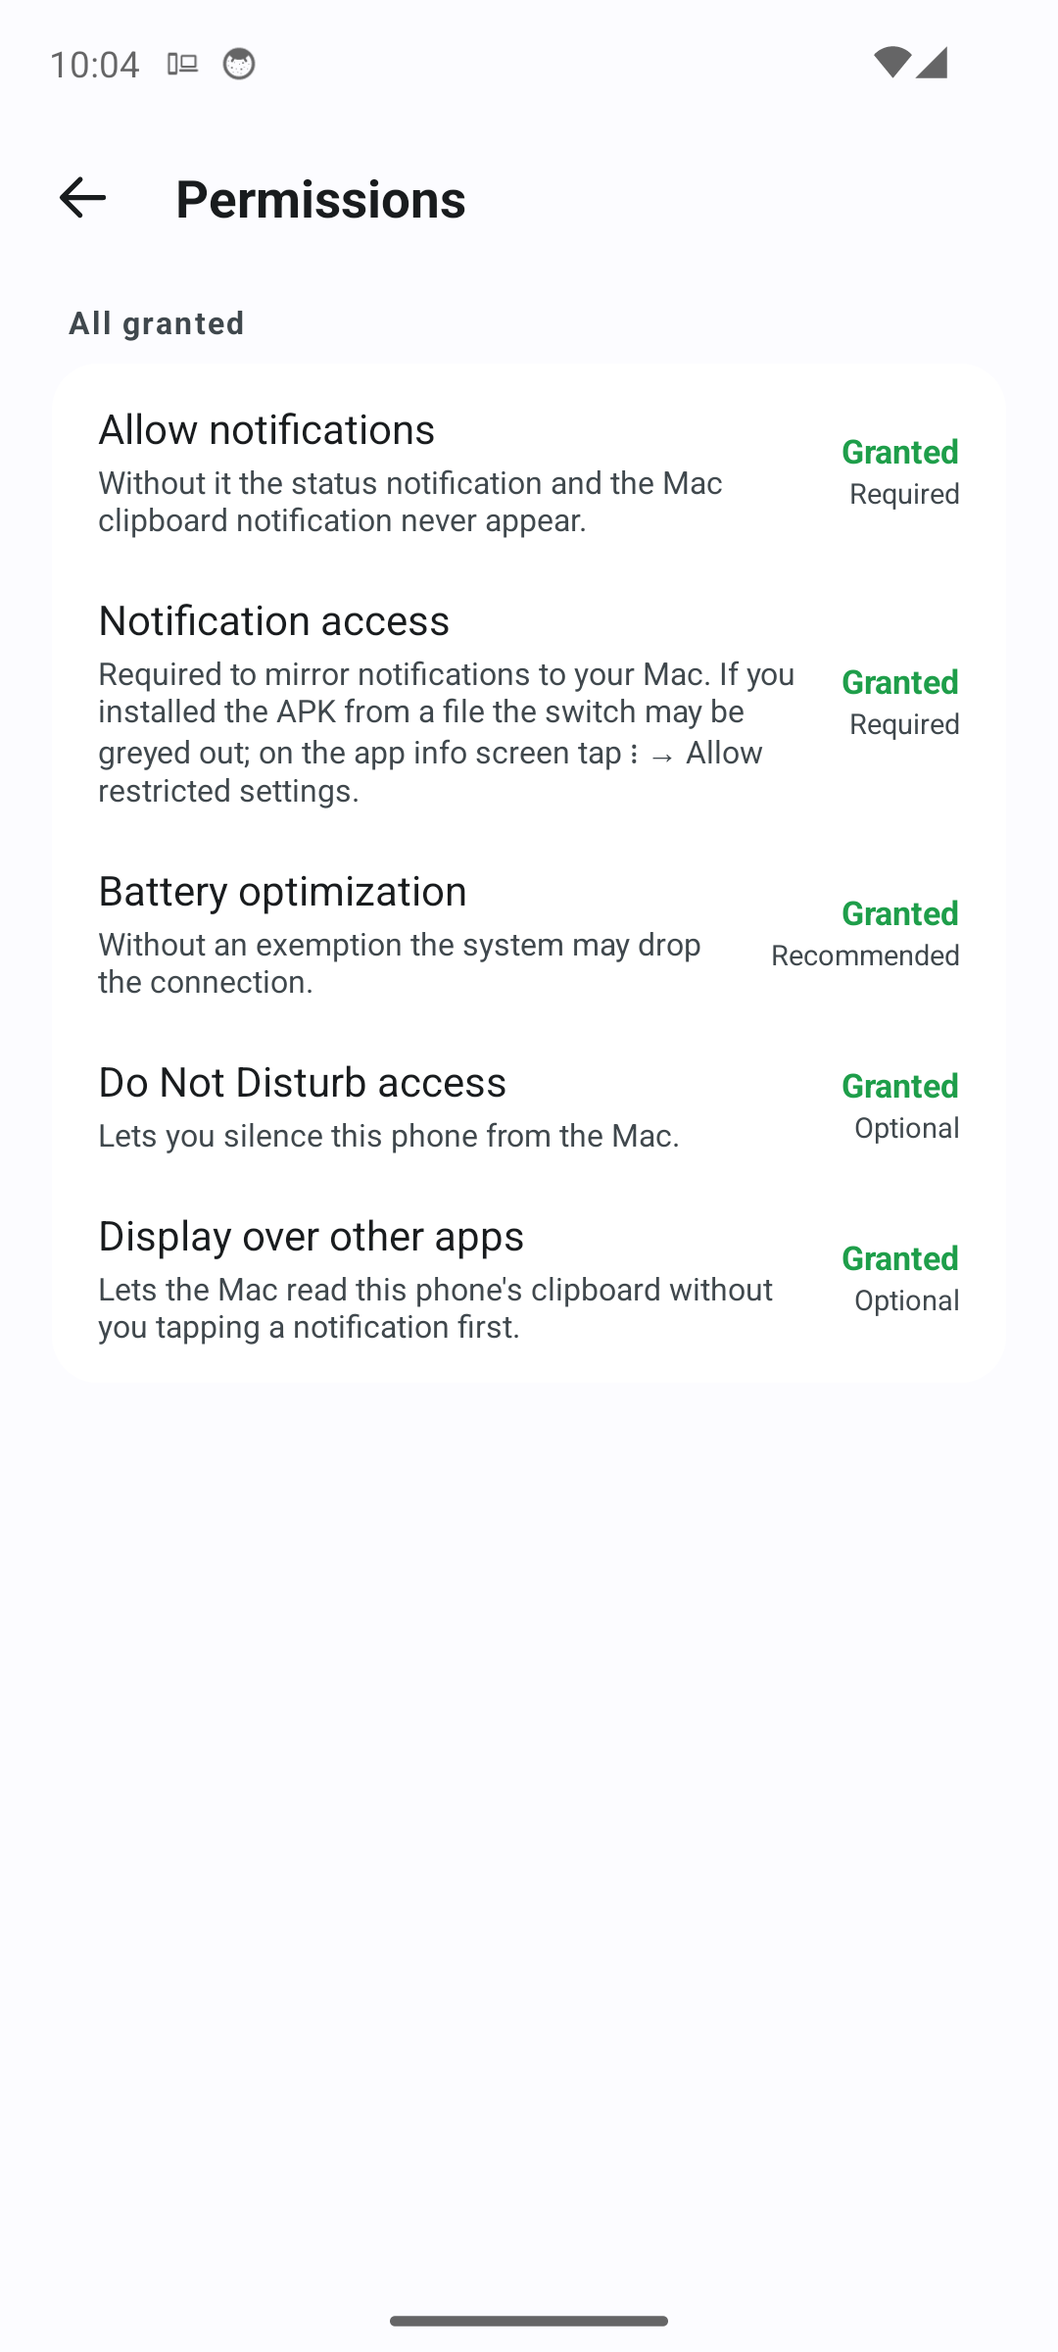
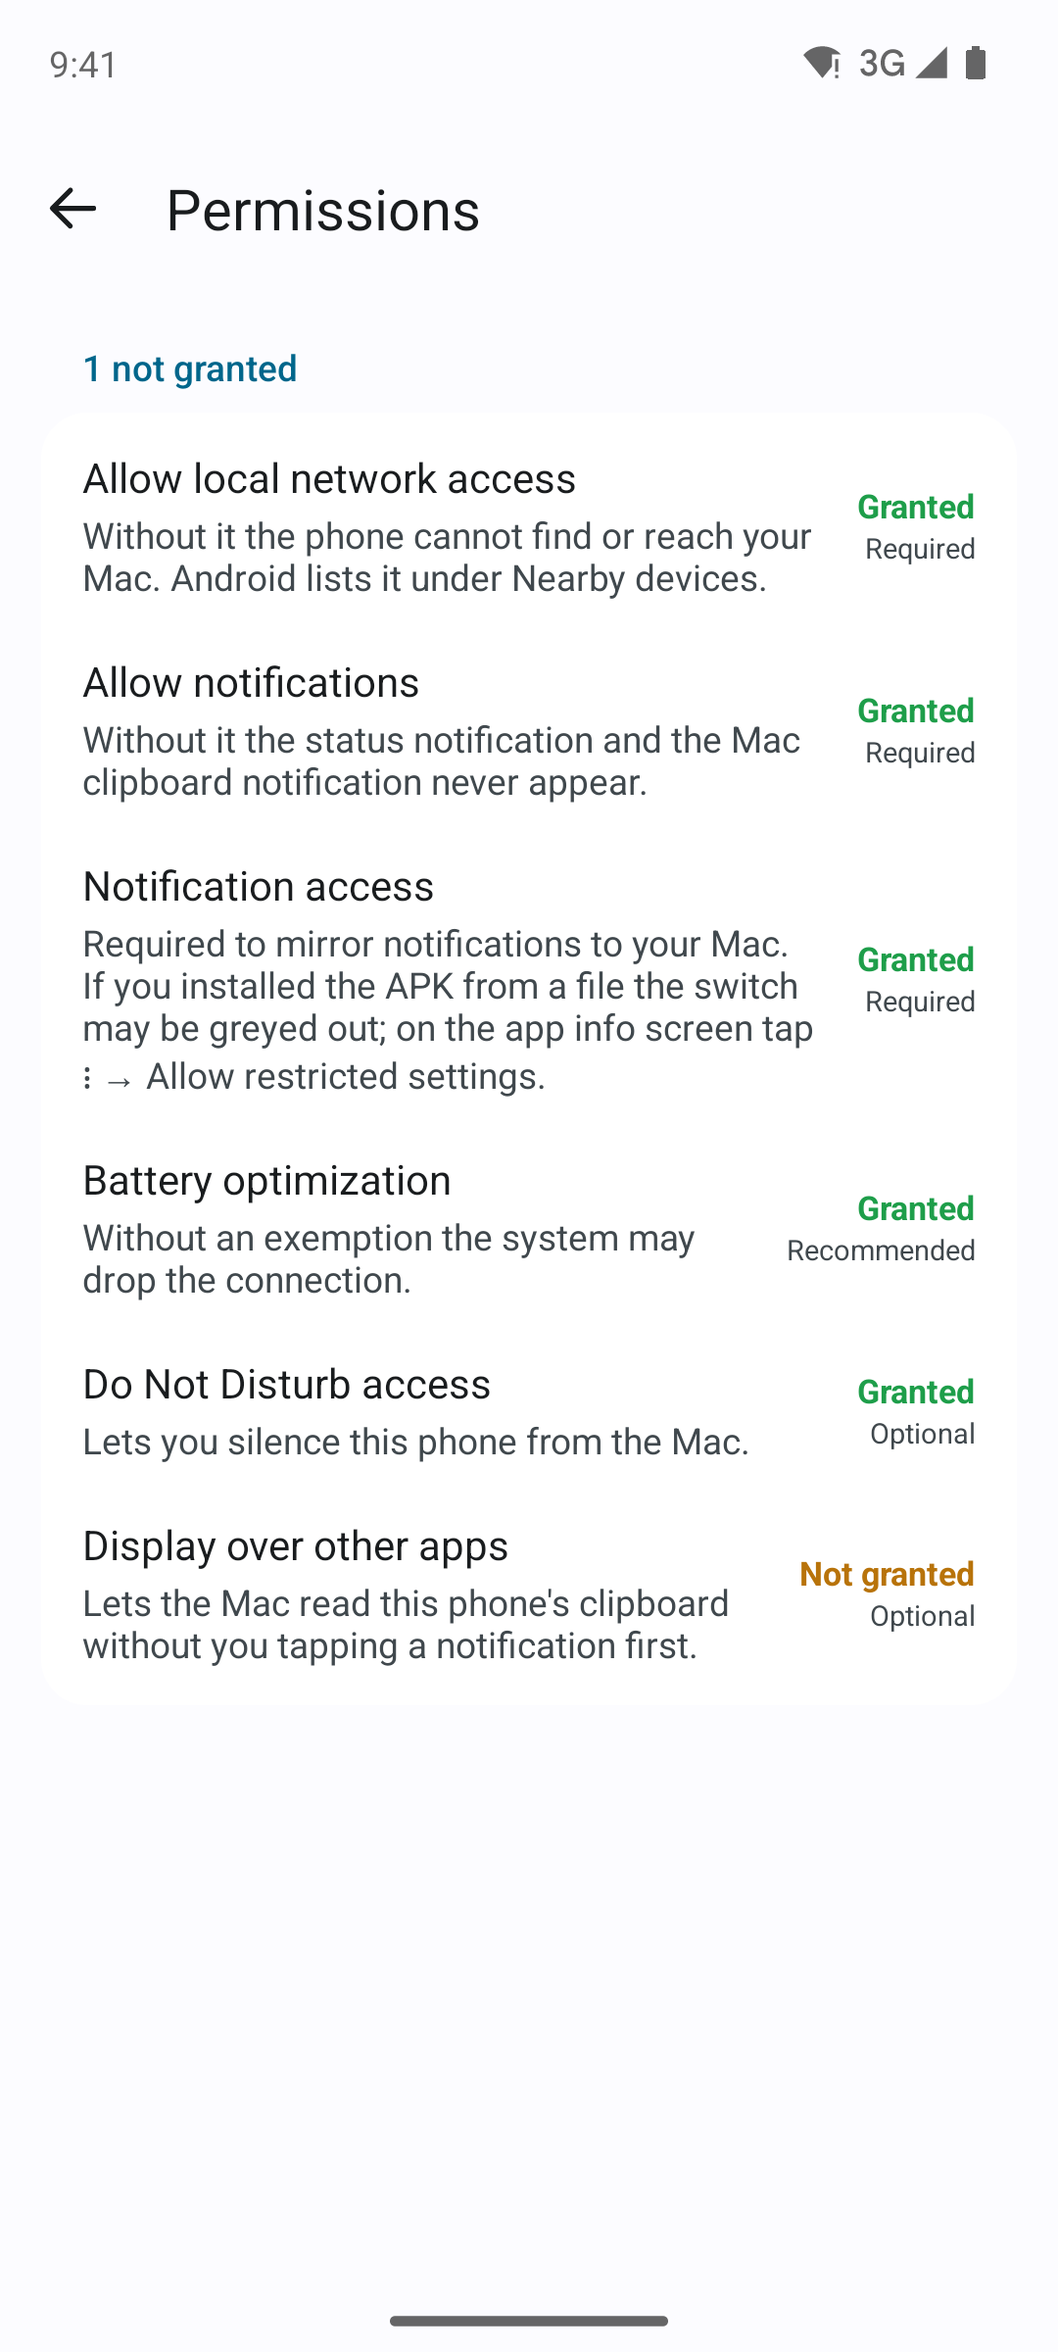
docs: new screenshots, guide and changelog for the UI changes

diff --git a/docs/GUIDE.tr.md b/docs/GUIDE.tr.md
@@ -197,41 +197,51 @@ başka bir yol da yok.
 
 ## Ayarlar
 
-Telefonun ana ekranı sade kalır: bağlantı durumu, **Pil durumu**, **Pano**, **Bildirimler** ve
-**Medya** için dört senkronizasyon anahtarı, **İzinler** kartı, iki ayrıntı satırı ve en altta
-sürüm. İki uygulama da sürümü aynı biçimde yazar: `1.0.0 (12 · abc1234)`, yani sürüm, derleme
-numarası ve derlendiği commit. Hata bildirirken bu satırın tamamını yaz. Gerisi bir alt seviyede.
+Telefonun ana ekranı sade kalır. Durum kartı Mac'in adını söyler: "… ile bağlı", "… ile bağlanılıyor"
+ya da eşleştirilmemişken ağda gördüğü Mac'ler. Altında **Pil durumu**, **Pano**, **Bildirimler**
+ve **Medya** için dört eşitleme anahtarı ve pano geçmişi durur. Bağlantı rehberi yalnızca telefon
+eşleşene kadar görünür; sonra üst çubuktaki **ⓘ** düğmesi onu canlı tanıyla birlikte açar. İzinler
+kartı yalnızca zorunlu bir izin eksikken çıkar. Geri kalan her şey üst çubuktaki **Ayarlar**
+düğmesinin arkasında.
+
+İki uygulama da sürümü aynı biçimde yazar: `1.1.0 (12 · abc1234)`, yani sürüm, derleme numarası ve
+derlendiği commit. Telefonda Ayarlar → Hakkında'da durur. Hata bildirirken bu satırın tamamını yaz.
 
 | Ekran | İçinde ne var |
 |---|---|
-| İzinler | Altı iznin tamamı, "Verildi" ya da "Verilmedi" durumu ve Zorunlu, Önerilir ya da İsteğe bağlı notuyla. Ana ekrandaki İzinler kartının başlığından açılır. |
+| Ayarlar | Bağlantı, Bildirimler, Pano, Dosya aktarımı, İzinler, Dil, Güncellemeler ve Hakkında; her biri tek satırlık bir özetle. |
+| Pano geçmişi | Mac'e giden ya da Mac'ten gelen son 20 metin, en yenisi üstte. Dokununca panoya alınır, gönder düğmesi yeniden gönderir. Yalnızca bellekte tutulur, depolamaya hiç yazılmaz; hassas kayıtlar tutulmaz. |
+| İzinler | Altı iznin tamamı, "Verildi" ya da "Verilmedi" durumu ve Zorunlu, Önerilir ya da İsteğe bağlı notuyla. Ayarlar'dan açılır. |
 | Bağlantı | Durum, Mac'in adı ve son adresi, **Otomatik yeniden bağlan**, **Şimdi bağlan** ve **Bu Mac'i unut**. |
 | Bildirim ayarları | Neyin ayarlı olduğunu özetleyen **Uygulama filtresi**, **Sessiz bildirimler** ve **Sadece telefon kilitliyken**. Her zaman elenenleri de listeler. |
 | Uygulama filtresi | Telefonun gördüğü her uygulama için üç kademeli seçici; Bildirim ayarları'ndan açılır. |
 | Pano ayarları | Gelen: **Panoya otomatik yaz**, **Bildirim göster**. Giden: **Hassas içeriği gönderme**. Bir de **Panoyu Mac'e gönder**. |
-| Bağlantı yardımı | Canlı tanı, sık karşılaşılan sorunlar ve işin nasıl yürüdüğü. Eşleştirme rehberindeki **Bağlanamıyorum**'dan açılır. |
+| Bağlantı yardımı | Canlı tanı, sık karşılaşılan sorunlar ve işin nasıl yürüdüğü. **ⓘ** düğmesinden ya da eşleştirme rehberindeki **Bağlanamıyorum**'dan açılır. |
 | Güncellemeler | Günlük güncelleme denetimi: anahtar, **Şimdi denetle** ve yeni paketi indirip doğrulayarak kuran **Kur** düğmesi. |
 | Dosyalar | **Dosya al** ve **Dosyaları otomatik kabul et**. Gelen dosyalar İndirilenler'e iner; gönderme herhangi bir uygulamanın paylaşım menüsünden yapılır. |
 | Dil | Android'in uygulama başına dil seçicisini açar; İngilizce ve Türkçe sunar. |
 
-Mac'te menü çubuğu paneli göz atmak içindir. En üstte cihaz kartı durur. Birden fazla telefon
-eşliyse kart onları Finder sekmeleri gibi üstte sekmeler hâlinde gösterir; bir sekmeye tıklamak
-hangi telefonun ayrıntılarının, denetimlerinin ve pilinin gösterildiğini değiştirir. Tek telefonda
-sekme yoktur. Kart, seçili telefonun çalan parçasını, ses düzeyi sürgüsünü ve zil modu
-düğmelerini, pano anahtarını, çaldırma düğmesini, test bildirimi düğmesini ve "Bağlantıyı kes"i
-taşır. Altında pil, sonra son pano kaydı, iki yönden birinde dosya giderken bir ilerleme satırı ve
-en son dört bildirim gelir. Durum satırı yalnızca hiç eşleştirme yokken ya da dinleyici kapalıyken
-en üstte çıkar. AndroMac için macOS bildirimleri kapalıysa panel tek satırlık bir uyarı ve ilgili
-Sistem Ayarları bölmesini açan bir düğme gösterir. Panelin üstüne bırakılan dosyalar gönderilir.
-Menü çubuğu simgesine sağ tıklamak AndroMac'i aç, Ayarlar ve Çık menüsünü açar.
-Neyin eşitleneceği bir kez Ayarlar'da kararlaştırılır; ayrıntı pencerede.
+Mac'te menü çubuğu paneli göz atmak içindir. Birden fazla telefon eşliyse üstteki sekmeler
+aralarında geçiş yapar. Telefonun kartı adını ve durumunu, tek bir pil satırını, çalan parçayı, zil
+modu ile ses düzeyini tek satırda gösterir. Altında tek sıra düğme var: telefonu çaldır, test
+bildirimi gönder, ekranı yansıt ve **Panomu buraya gönder**, **Cihaz ayarları…** ile **Bağlantıyı
+kes**'i taşıyan bir **⋯** menüsü. Telefonun adına tıklamak ayarlarını açar. Sonra son pano kaydı
+gelir; yanındaki düğmeler telefondan panoyu ister, Mac'inkini gönderir ya da dosya gönderir.
+Üzerine gelince metnin tamamı görünür, ⌘C kopyalar. Paneli en son dört bildirim kapatır. Dosya
+giderken bir ilerleme satırı, yalnızca hiç eşleştirme yokken ya da dinleyici kapalıyken bir durum
+satırı, AndroMac için macOS bildirimleri kapalıyken de tek satırlık bir uyarı çıkar. Panelin
+üstüne bırakılan dosyalar gönderilir. ⌘, Ayarlar'ı açar; menü çubuğu simgesine sağ tıklamak
+AndroMac'i aç, Ayarlar ve Çık menüsünü açar.
 
-| Sekme | İçinde ne var |
+Pencerenin tek bir kenar çubuğu var: üstte **Bildirimler**, **Pano** ve **Uygulamalar**, altında
+bütün ayar bölümleri.
+
+| Sayfa | İçinde ne var |
 |---|---|
 | Bildirimler | Geçmiş; arama ve temizleme düğmesi. |
 | Pano | Geçmiş; arama, tıklayınca panoya alma, sağ tıkla geri gönderme ya da silme. |
 | Uygulamalar | Telefondaki her uygulama için kademe seçici. |
-| Ayarlar | Kenar çubuğu düzeni: solda bölüm listesi, sağda seçili bölümün seçenekleri. Bölümler sırasıyla Genel, Eşitleme, Pano, Bildirimler, Dosyalar, Ekran yansıtma, Cihazlar, İzinler, Ağ, Güncellemeler, Ölçümler ve Gizlilik. |
+| Ayarlar | Genel, Eşitleme, Pano, Bildirimler, Dosyalar, Ekran yansıtma, Cihazlar, İzinler, Ağ, Güncellemeler, Ölçümler ve Gizlilik. |
 
 Ayarlar → Genel'de **Oturum açınca başlat**, **Menü çubuğunda pil yüzdesi** ve Sistem, İngilizce,
 Türkçe seçenekli bir **Dil** seçici var. Dil açılışta okunduğu için değiştirince bir "Yeniden
@@ -441,7 +451,7 @@ göstermeli. Belirgin biçimde fazlası, kurallardan birinin çiğnendiği anlam
 <td align="center"><img src="images/android-home.png" alt="Android ana ekranı" width="230"></td>
 <td align="center"><img src="images/android-home-dark.png" alt="Android ana ekranı, koyu tema" width="230"></td>
 <td align="center"><img src="images/android-permissions.png" alt="Android'de İzinler ekranı" width="230"></td>
-<td align="center"><img src="images/android-connection.png" alt="Android'de Bağlantı ekranı" width="230"></td>
+<td align="center"><img src="images/android-settings.png" alt="Android'de Ayarlar" width="230"></td>
 </tr>
 <tr>
 <td colspan="2" align="center"><img src="images/android-pairing.png" alt="Android'de eşleştirme kodu" width="230"></td>
@@ -451,13 +461,10 @@ göstermeli. Belirgin biçimde fazlası, kurallardan birinin çiğnendiği anlam
 <td colspan="4" align="center"><img src="images/macos-window.png" alt="macOS'ta AndroMac ana penceresi" width="640"></td>
 </tr>
 <tr>
-<td colspan="4" align="center"><img src="images/macos-settings.png" alt="macOS'ta Ayarlar, Genel" width="640"></td>
+<td colspan="4" align="center"><img src="images/macos-settings.png" alt="macOS'ta Ayarlar, Pano" width="640"></td>
 </tr>
 <tr>
 <td colspan="4" align="center"><img src="images/macos-settings-sync.png" alt="macOS'ta Ayarlar, Eşitleme" width="640"></td>
-</tr>
-<tr>
-<td colspan="4" align="center"><img src="images/macos-settings-permissions.png" alt="macOS'ta Ayarlar, İzinler" width="640"></td>
 </tr>
 </table>
 

diff --git a/docs/GUIDE.md b/docs/GUIDE.md
@@ -198,45 +198,54 @@ nothing, and nothing in the protocol can read its clipboard.
 
 ## Settings
 
-The phone's main screen stays plain: connection status, the **Permissions** card, four sync
-switches for **Battery**, **Clipboard**, **Notifications** and **Media**, two detail lines, and
-the version at the bottom. Both apps write the version the same way, as `1.0.0 (12 · abc1234)`:
-version, build number and the commit it was built from. Quote that whole string in a bug report.
-Everything else is one level down.
+The phone's main screen stays plain. The status card names the Mac: "Connected to …",
+"Connecting to …", or, while unpaired, the Macs it can see. Below it sit the four sync switches
+for **Battery**, **Clipboard**, **Notifications** and **Media**, and the clipboard history. The
+connection guide shows only until the phone is paired; after that the **ⓘ** button in the top
+bar opens it together with the live diagnostics. A permissions card appears only while a required
+permission is missing. Everything else is behind the **Settings** button in the top bar.
+
+Both apps write the version the same way, as `1.1.0 (12 · abc1234)`: version, build number and
+the commit it was built from. It is under Settings → About on the phone. Quote that whole string
+in a bug report.
 
 | Screen | What is on it |
 |---|---|
+| Settings | Connection, Notifications, Clipboard, File transfer, Permissions, Language, Updates and About, each with a one-line summary. |
+| Clipboard history | The last 20 texts sent to or received from the Mac, newest first. Tap to copy, the send button to send again. Kept in memory only and never written to storage; sensitive clips are not recorded. |
 | Permissions | All six permissions, each marked Granted or Not granted, with Required, Recommended or Optional noted. Tapping one opens the matching system screen. |
 | Connection | State, the Mac's name and last address, **Reconnect automatically**, **Connect now**, and **Forget this Mac**. |
 | Notification settings | **App filter** with a summary of what is set, **Silent notifications**, and **Only while the phone is locked**. It also lists what is always filtered out. |
 | App filter | The three-tier picker for every app the phone has seen, reached from Notification settings. |
 | Clipboard settings | Incoming: **Write to the clipboard**, **Show a notification**. Outgoing: **Never send sensitive content**. Plus **Send clipboard to Mac**. |
-| Connection help | Live diagnostics, common problems, and how the whole thing works. Reached through **I can't connect** in the pairing guide. |
+| Connection help | Live diagnostics, common problems, and how the whole thing works. Reached through the **ⓘ** button, or **I can't connect** in the pairing guide. |
 | Updates | The daily update check: switch, **Check now**, and an **Install** button that downloads, verifies and installs the newer build. |
 | Files | **Receive files** and **Accept files automatically**. Received files go to Downloads; sending is done from any app's share sheet. |
 | Language | Opens the Android per-app language picker, which offers English and Turkish. |
 
-On the Mac the menu bar panel is for glancing. It shows, in order, a device card, the last
-clipboard entry, and the four most recent notifications. The card carries the phone's track, its
-volume slider and ringer buttons, its clipboard switch, a ring button, a test-notification button
-and Disconnect, with battery underneath. With more than one phone paired, the card shows them as
-tabs across the top, like Finder tabs, and clicking a tab switches which phone's details,
-controls and battery are shown. With one phone there are no tabs. A progress row sits under the
-clipboard entry while a file is moving in either direction. A status line appears above all of
-it only when nothing is paired yet or the listener is down. While macOS notifications are turned
-off for AndroMac, the panel shows a one-line warning with a button that opens the matching
-System Settings pane. Dropping files onto the panel sends them. Right-clicking the menu bar icon opens a menu with Open AndroMac, Settings and Quit. What syncs is decided once, in
-Settings, and the detail lives in the window.
+On the Mac the menu bar panel is for glancing. With more than one phone paired, tabs across the
+top switch between them. The phone's card shows its name and state, one battery line, the track
+that is playing, and the ringer and volume on one row. Below that is one row of buttons: ring the
+phone, send a test notification, mirror the screen, and a **⋯** menu with **Send my clipboard
+here**, **Device settings…** and **Disconnect**. Clicking the phone's name opens its settings.
+Next comes the last clipboard entry, with buttons to ask the phone for its clipboard, send the
+Mac's, or send a file; hover it to read the whole text, and press ⌘C to copy it. The four most
+recent notifications close the panel. A progress line appears while a file is moving, a status
+line only when nothing is paired or the listener is down, and a one-line warning while macOS
+notifications are off for AndroMac. Dropping files onto the panel sends them. ⌘, opens
+Settings, and right-clicking the menu bar icon opens a menu with Open AndroMac, Settings and Quit.
 
-| Tab | What is on it |
+The window has one sidebar: **Notifications**, **Clipboard** and **Apps** at the top, then every
+settings section.
+
+| Page | What is on it |
 |---|---|
 | Notifications | The history, with search and a clear button. |
 | Clipboard | The history, with search, click to copy, right-click to send back or delete. |
 | Apps | The tier picker for every app on the phone. |
-| Settings | A sidebar with General, Sync, Clipboard, Notifications, Files, Screen mirroring, Devices, Permissions, Network, Updates, Metrics and Privacy. |
+| Settings | General, Sync, Clipboard, Notifications, Files, Screen mirroring, Devices, Permissions, Network, Updates, Metrics and Privacy. |
 
-Settings is a sidebar layout: the sections listed on the left, the chosen section's options on
-the right. General has **Open at login**, **Show battery percentage in the menu bar**, and a
+General has **Open at login**, **Show battery percentage in the menu bar**, and a
 **Language** picker offering System, English and Turkish. Changing the language shows a Restart
 button, because the language is read at launch. Sync holds the four switches for **Battery**,
 **Clipboard**, **Notifications** and **Media**, the low-battery alert switch, and a threshold
@@ -446,7 +455,7 @@ per hour for each connected phone when idle. Noticeably more means one of the ru
 <td align="center"><img src="images/android-home.png" alt="The Android main screen" width="230"></td>
 <td align="center"><img src="images/android-home-dark.png" alt="The Android main screen in dark mode" width="230"></td>
 <td align="center"><img src="images/android-permissions.png" alt="The Permissions screen on Android" width="230"></td>
-<td align="center"><img src="images/android-connection.png" alt="The Connection screen on Android" width="230"></td>
+<td align="center"><img src="images/android-settings.png" alt="Settings on Android" width="230"></td>
 </tr>
 <tr>
 <td colspan="2" align="center"><img src="images/android-pairing.png" alt="The pairing code on Android" width="230"></td>
@@ -456,13 +465,10 @@ per hour for each connected phone when idle. Noticeably more means one of the ru
 <td colspan="4" align="center"><img src="images/macos-window.png" alt="The AndroMac main window on macOS" width="640"></td>
 </tr>
 <tr>
-<td colspan="4" align="center"><img src="images/macos-settings.png" alt="Settings on macOS, General" width="640"></td>
+<td colspan="4" align="center"><img src="images/macos-settings.png" alt="Settings on macOS, Clipboard" width="640"></td>
 </tr>
 <tr>
 <td colspan="4" align="center"><img src="images/macos-settings-sync.png" alt="Settings on macOS, Sync" width="640"></td>
-</tr>
-<tr>
-<td colspan="4" align="center"><img src="images/macos-settings-permissions.png" alt="Settings on macOS, Permissions" width="640"></td>
 </tr>
 </table>
 

diff --git a/CHANGELOG.tr.md b/CHANGELOG.tr.md
@@ -22,6 +22,15 @@ açar.
 
 ### Değişenler
 
+- **Daha sade bir Mac paneli.** Her telefonun pili üç kez yerine bir kez görünüyor, boşluklar
+  daha sıkı, denetimler de geri kalanı bir menüde toplayan tek sıra düğmede. macOS 26 ve sonrasında
+  panel, düğmeler ve pencere Liquid Glass kullanıyor. Pencerede geçmişler ve bütün ayar sayfaları
+  için tek bir kenar çubuğu var, ⌘, Ayarlar'ı açıyor.
+- **Daha sade bir telefon uygulaması.** Ayarlar'ın üst çubuktaki düğmenin arkasında kendi ekranı
+  var. Bağlantı rehberi eşleşince kayboluyor ve bilgi düğmesinin altında bir dokunuş uzakta kalıyor.
+  Durum, bağlı olunan ya da bağlanılan Mac'in adını söylüyor; eşleştirme de telefonun gördüğü
+  Mac'leri gösteriyor. Yeni pano geçmişi gönderilen ya da gelen son 20 metni listeliyor ve yalnızca
+  bellekte tutuyor.
 - **Pile daha hafif.** Telefon Mac'i yalnızca Wi-Fi ya da Ethernet'te ve yalnızca onu son bulduğu
   ağda arıyor. Mac uyurken sessiz kalıyor, ekran kapalıyken pil güncellemelerini bekletiyor, tekrar
   eden bildirimleri atlıyor ve ekran kapalıyken gelen pano isteklerini yok sayıyor. Mac de

diff --git a/CHANGELOG.md b/CHANGELOG.md
@@ -22,6 +22,15 @@ version gets a new section.
 
 ### Changed
 
+- **A cleaner Mac panel.** Each phone's battery shows once instead of three times, spacing is
+  tighter, and the controls sit in one row of buttons with a menu for the rest. On macOS 26 and
+  later the panel, buttons and window use Liquid Glass. The window has a single sidebar for the
+  histories and every settings page, and ⌘, opens Settings.
+- **A simpler phone app.** Settings has its own screen behind the button in the top bar. The
+  connection guide disappears once you are paired and stays one tap away under the info button.
+  The status names the Mac you are connected or connecting to, and pairing shows the Macs the
+  phone can see. A new clipboard history lists the last 20 texts sent or received, kept in memory
+  only.
 - **Easier on the battery.** The phone looks for the Mac only on Wi-Fi or Ethernet, and only on
   the network where it last found it. It goes quiet while the Mac sleeps, holds battery updates
   while the screen is off, skips repeated notifications, and ignores clipboard requests with the
